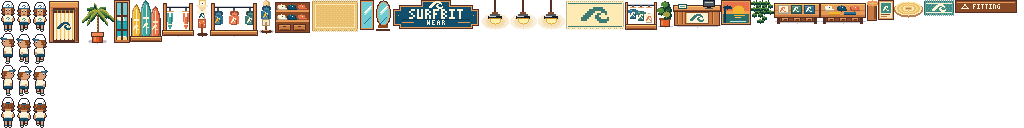
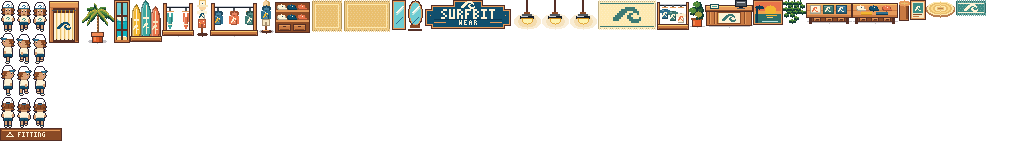
center tee rack on a two-tile jute rug

Changed region(s): [[0.0, 0.0, 1.0, 1.0]]

diff --git a/src/game/art/interiorProps.ts b/src/game/art/interiorProps.ts
@@ -43,6 +43,17 @@ function waveRug(w: number, h: number, scale: number): PropSpec {
   };
 }
 
+function juteRug(w: number): PropSpec {
+  return {
+    w, h: 32, foot: { w: w / 16, h: 2 }, flat: true, outline: false,
+    draw: (c, x, _f, { color, accent }) => {
+      weaveRug(c, x, w, 32, color);
+      for (const y of [4, 27]) rect(c, x + 4, y, w - 8, 1, accent);
+      for (const left of [4, w - 5]) rect(c, x + left, 5, 1, 22, accent);
+    },
+  };
+}
+
 function weaveRug(c: Ctx, x: number, w: number, h: number, color: string) {
   const dark = shade(color, -0.24);
   const light = shade(color, 0.24);
@@ -370,14 +381,9 @@ export const INTERIOR_PROPS = {
       rect(c, x + 12, 8, 5, 1, P.thatchDark);
     },
   },
-  rug: {
-    w: 48, h: 32, foot: { w: 3, h: 2 }, flat: true, outline: false,
-    draw: (c, x, _f, { color, accent }) => {
-      weaveRug(c, x, 48, 32, color);
-      for (const y of [4, 27]) rect(c, x + 4, y, 40, 1, accent);
-      for (const left of [4, 43]) rect(c, x + left, 5, 1, 22, accent);
-    },
-  },
+  rug: juteRug(48),
+  // Two tiles wide so a two-tile rack can sit centered on it.
+  narrowRug: juteRug(32),
   wickerChair: {
     w: 21, h: 24, foot: { w: 1, h: 1 }, solid: true, outline: false,
     draw: (c, x) => {

diff --git a/src/game/maps/wear.ts b/src/game/maps/wear.ts
@@ -58,7 +58,7 @@ const def: MapDef = {
     { type: "display", prop: "mannequin", x: 17, y: 9, productId: "offshore-hoodie", tint: { color: P.deepBlue, accent: P.sun } },
     { type: "prop", prop: "plant", x: 1, y: 9 },
     { type: "prop", prop: "plant", x: 18, y: 9 },
-    { type: "prop", prop: "rug", x: 4, y: 9, tint: jute },
+    { type: "prop", prop: "narrowRug", x: 4, y: 9, tint: jute },
     { type: "prop", prop: "waveRug", x: 8, y: 8, tint: { color: P.sandLight, accent: P.signTeal } },
     { type: "prop", prop: "rug", x: 13, y: 9, tint: jute },
     { type: "display", prop: "clothesRack", x: 4, y: 8, productId: "logo-tee", tint: { color: P.cream, accent: P.coral } },

diff --git a/docs/SCENES.md b/docs/SCENES.md
@@ -199,7 +199,8 @@ plants everywhere, soft golden light. Fitting rooms visible from the door.
 Other dressing: two fitting rooms with cream curtains and wave marks (solid),
 wall mirror + standing oval mirror, board rack with 3 decorative boards,
 sunset painting, hanging and potted plants, wave rug in the center, jute rugs
-under racks and mannequins, log posts at the entrance.
+under racks and mannequins (each rug centered under its rack; the two-tile tee
+rack uses `narrowRug`), log posts at the entrance.
 
 Shopkeeper: curly-haired woman, white cap, cream tee (`idle`, behind the counter).
 
@@ -312,7 +313,7 @@ terrain tiles. The shore overlay supplies the town's wave foam.
 
 **Interior props:** wall board rack, freestanding board rack, product placard,
 counter + register, shelves (tees, wax, caps), wicker chair, pouf, round and
-rectangle jute rugs, wave mat, wave rug, pendant lamp + glow, hanging vines,
+rectangle jute rugs (`rug`, `narrowRug`), wave mat, wave rug, pendant lamp + glow, hanging vines,
 potted palm, monstera, framed posters ×3, window with beach view, rope posts,
 log posts, fin table, bench + towel, coffee table, crates, clothes rack (tint
 variants), mannequin (tint variants), display table, fitting room, mirrors ×2,

diff --git a/docs/ROADMAP.md b/docs/ROADMAP.md
@@ -318,3 +318,4 @@ multiplayer · Supabase accounts & saved preferences.
 - 2026-11-27 — Added Phase B (open SURFBIT Goods, the Workshop and the Beach Club) with the owner's decisions on what each sells; removed those interiors from the Phase 7 ideas.
 - 2026-11-27 — Step B.2 complete. Opened SURFBIT Goods with six lifestyle products, added its room and atlas, and verified the directory, online catalog, keyboard checkout and touch interactions in Chromium.
 - 2026-11-27 — B.2 follow-up. Moved the Goods wave rug one tile toward the entrance to clear the tee table.
+- 2026-11-27 — Wear follow-up. Added a two-tile `narrowRug` so the tee rack sits centered on its jute rug.
